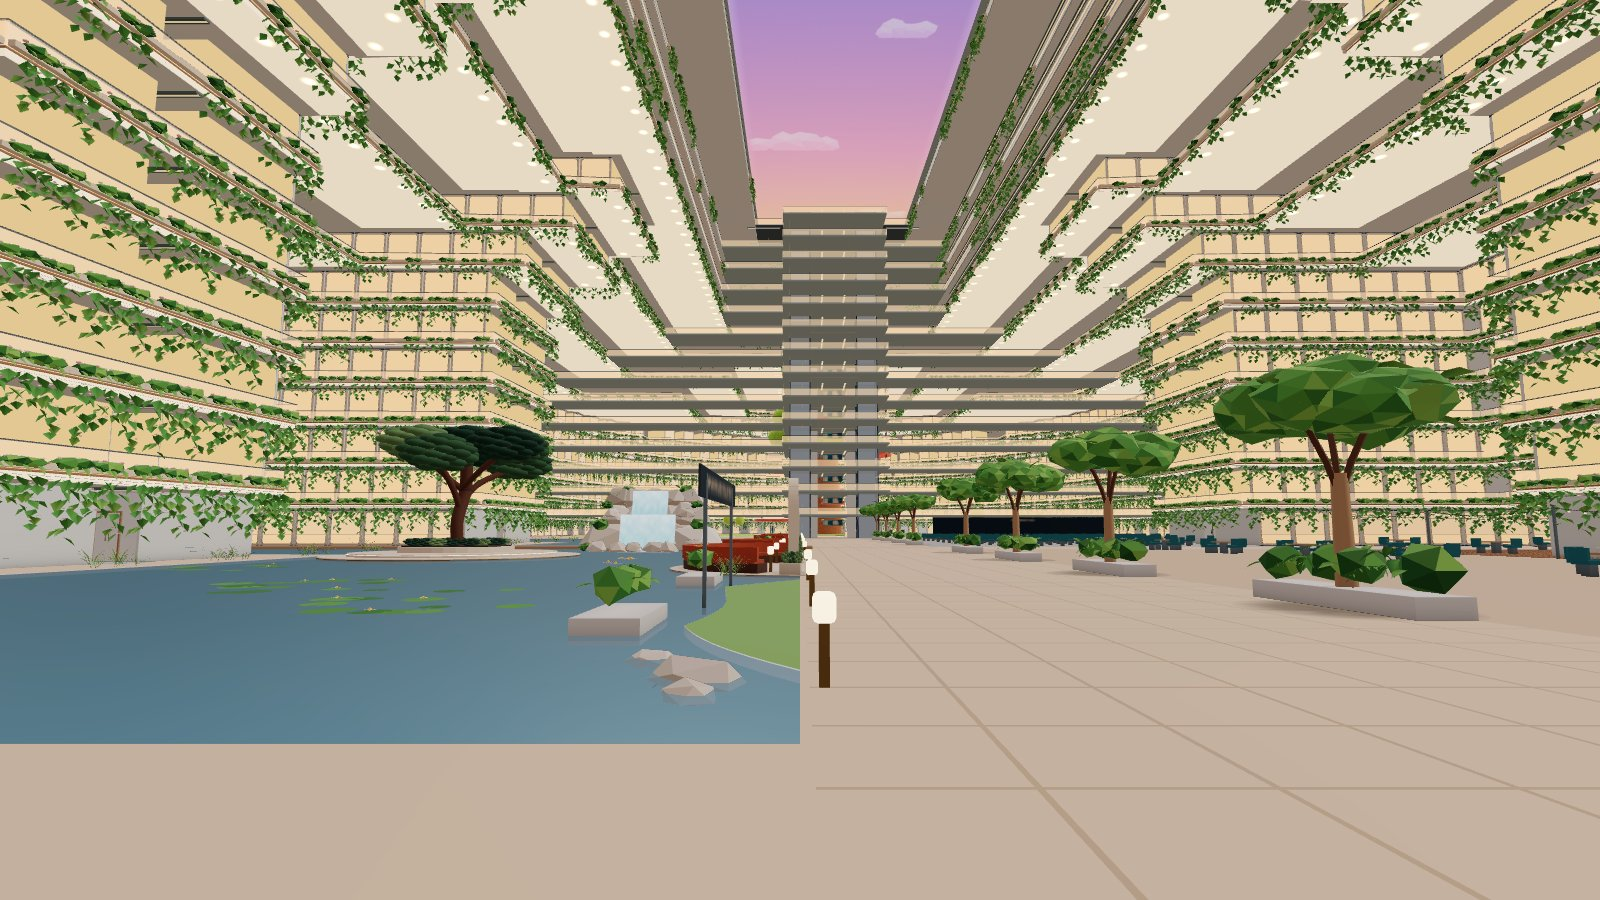
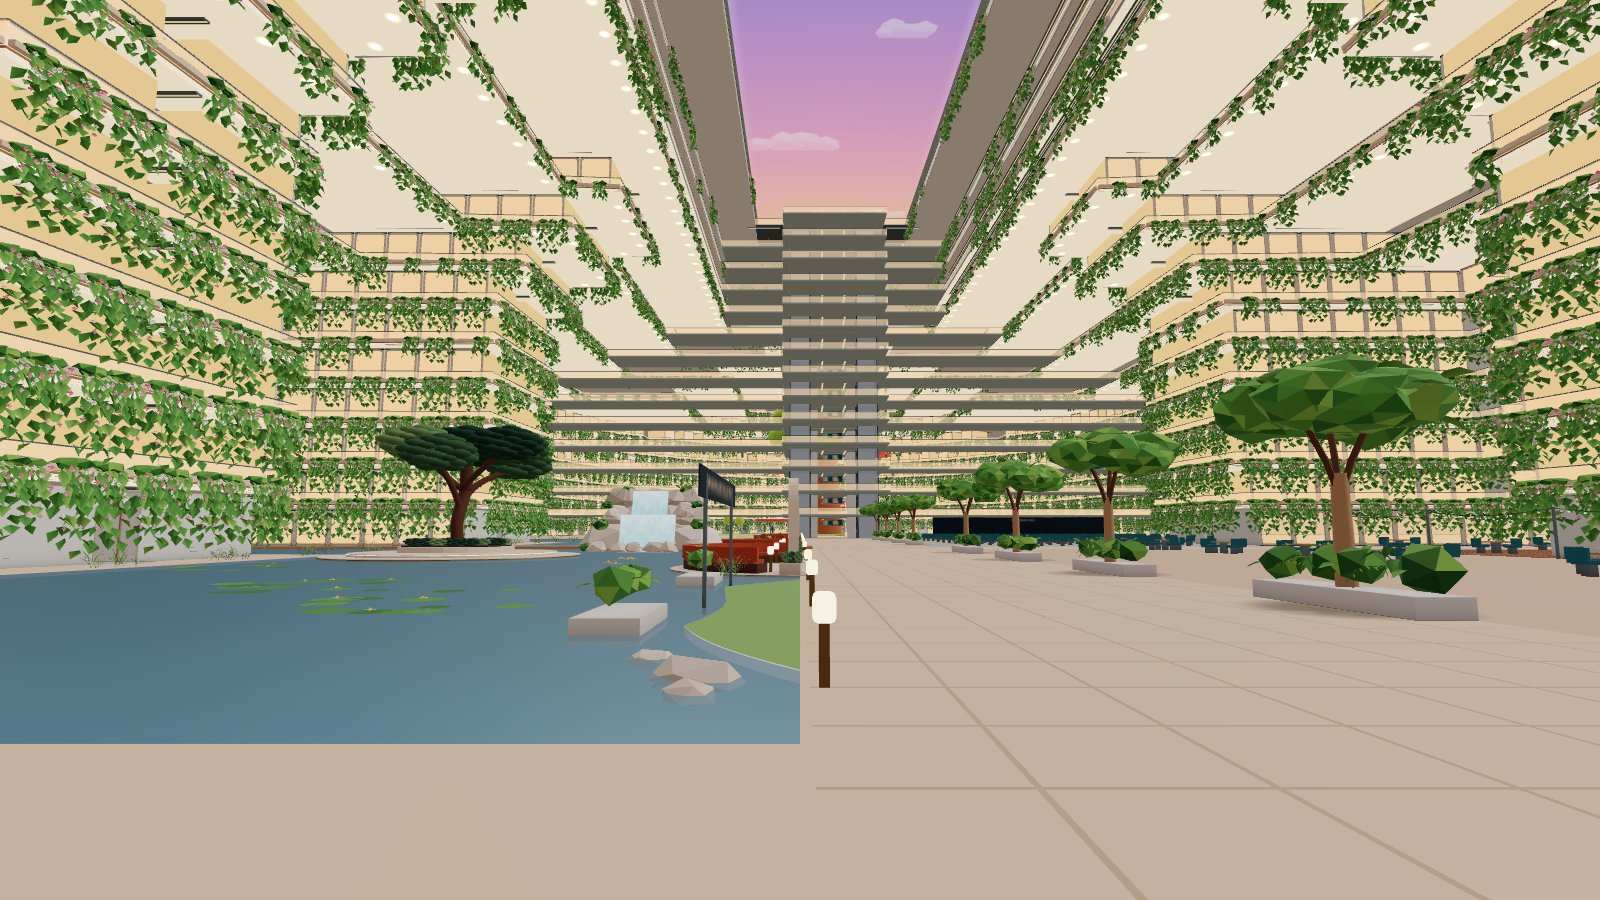
docs(atrium): balcony walls refine captures and cost
After captures, close-ups and contact sheets now show the refine pass
(09a4cacb) against 42113d02 and concept B, day and night. Draws unchanged;
+454,476 triangles (+4.2 %) per view.

diff --git a/docs/atrium-areas/walls/README.md b/docs/atrium-areas/walls/README.md
@@ -11,7 +11,7 @@ fascias). The balcony undersides stay cream; balustrades and geometry are unchan
 ![walls-along and hero: before, after by day, after at night](contact-day-night.jpg)
 
 *Before is a local r187 build (three 0.187.0) of 42113d02 (day/night light + sky A); after is the same base plus this
-change (2e56f019), built in the same folder. All captures are `scripts/capture-atrium-areas.mjs
+change (09a4cacb, the refine pass), built in the same folder. All captures are `scripts/capture-atrium-areas.mjs
 --only=walls-starboard,walls-along,hero --query=time=day|night`. The concepts were painted over older, darker
 captures, so compare hue and pattern, not brightness.*
 
@@ -19,7 +19,9 @@ captures, so compare hue and pattern, not brightness.*
 
 - **Planter strip, Decks 7–16:** each run of the slab edge is cut into equal slots of about 3.6 m, one trough per slot,
   stretched to fill its run so neighbours abut. On curves, short runs are gathered into chords first. The strip stops
-  only where the tower, its bridges or a dining apron meet the edge. Vines trail about 1–3 m.
+  only where the tower, its bridges or a dining apron meet the edge. Each trough carries a curtain of large leaves (up
+  to three rows, about 1.3 m deep on the lush variant) and vines trailing about 1–3 m, with white and pink blossom
+  cards (two crossed cards, four triangles) hung in front of the curtain, where the floor sees them.
 - **Lighter higher up:** three variants (lush, medium, light; the light one gathers its foliage at one end of the
   trough). The lush share falls from about 90 % on Deck 7 to about 2 % on Deck 16, and the light share rises from
   0 % to 60 %. Variants come in clustered runs from smooth noise along the edge, with a random mirror and a trail
@@ -29,14 +31,18 @@ captures, so compare hue and pattern, not brightness.*
   the floor up to it. The cream limestone is drawn with the soffit (`V2_atrium_soffit`), so it follows atrium-light's
   day/night lerp. The oak band and the bronze line join the static garden draw. They stop at the same tower, bridge
   and apron mouths.
+- **Walkway ceilings, Decks 7–16:** the grey bands seen over the guards were the walkway ceilings (the undersides of
+  the slab and the facade terrace plate above). A cream sheet in the soffit material now runs just under them, from
+  each edge up to 3.5 m inboard (sampled every 0.75 m), stopping at the voids above and below, slab holes and rooms,
+  so it shows only where the bare underside did (`walkwayCeilings`).
 
 ## Rules kept
 
 - **Void:** every new piece above Deck 16 is a `P6_hanging_garden_*` face within 1.2 m of an edge and no more than
   0.75 m above its deck. Fascias stay at or below their deck's floor. A node run of `auditAtriumVoid` on the gardens
-  layer passes: 88,794 faces, 0 violations.
+  layer passes: 85,958 faces, 0 violations.
 - **Batching:** no new meshes. The planting is still the three instanced `P6_hanging_garden_*` draws (distant copy:
-  one silhouette template, Basic). The fascias join `P6_atrium_soffits` and `P6_atrium_gardens`. All of these are
+  one silhouette template, Basic). The fascias and walkway ceilings join `P6_atrium_soffits` and `P6_atrium_gardens`. All of these are
   `gardenDecor`, so phones drop them from the distant layer.
 - **No collider change:** everything is `noCollide`, so the atrium PVS key is unchanged. `atrium-gardens.js` has no
   pin rows, so nothing to re-pin.
@@ -45,18 +51,19 @@ captures, so compare hue and pattern, not brightness.*
 
 | View | Draws before → after | Triangles before → after |
 | --- | --- | --- |
-| hero | 558 → 558 | 10,760,649 → 11,162,263 |
-| walls-starboard | 613 → 613 | 11,067,498 → 11,469,112 |
-| walls-along | 812 → 812 | 10,899,351 → 11,300,965 |
+| hero | 558 → 558 | 10,760,649 → 11,215,125 |
+| walls-starboard | 613 → 613 | 11,067,498 → 11,521,974 |
+| walls-along | 812 → 812 | 10,899,351 → 11,353,827 |
 
 Main-pass draws and triangles from the debug review walk (`scripts/launch-a-measure.mjs`): [`stats-before.json`](stats-before.json),
-[`stats-after.json`](stats-after.json). The +401,614 triangles (+3.7 %) are the same in every view because the facade
+[`stats-after.json`](stats-after.json). The +454,476 triangles (+4.2 %) are the same in every view because the facade
 layer draws whole.
 
 | Planting | Before | After |
 | --- | --- | --- |
 | Instances | 1,267 | 3,810 |
-| Triangles per variant | 576 / 600 / 656 | 398 / 228 / 148 |
-| Near triangles | 775,048 | 1,163,030 |
-| Distant-copy triangles | 141,904 | 403,860 |
+| Triangles per variant | 576 / 600 / 656 | 400 / 248 / 138 |
+| Near triangles | 775,048 | 1,182,596 |
+| Distant-copy triangles | 141,904 | 441,960 |
 | Fascias | – | 11.9 km, 13,632 triangles |
+| Walkway ceilings | – | 33,296 triangles |
